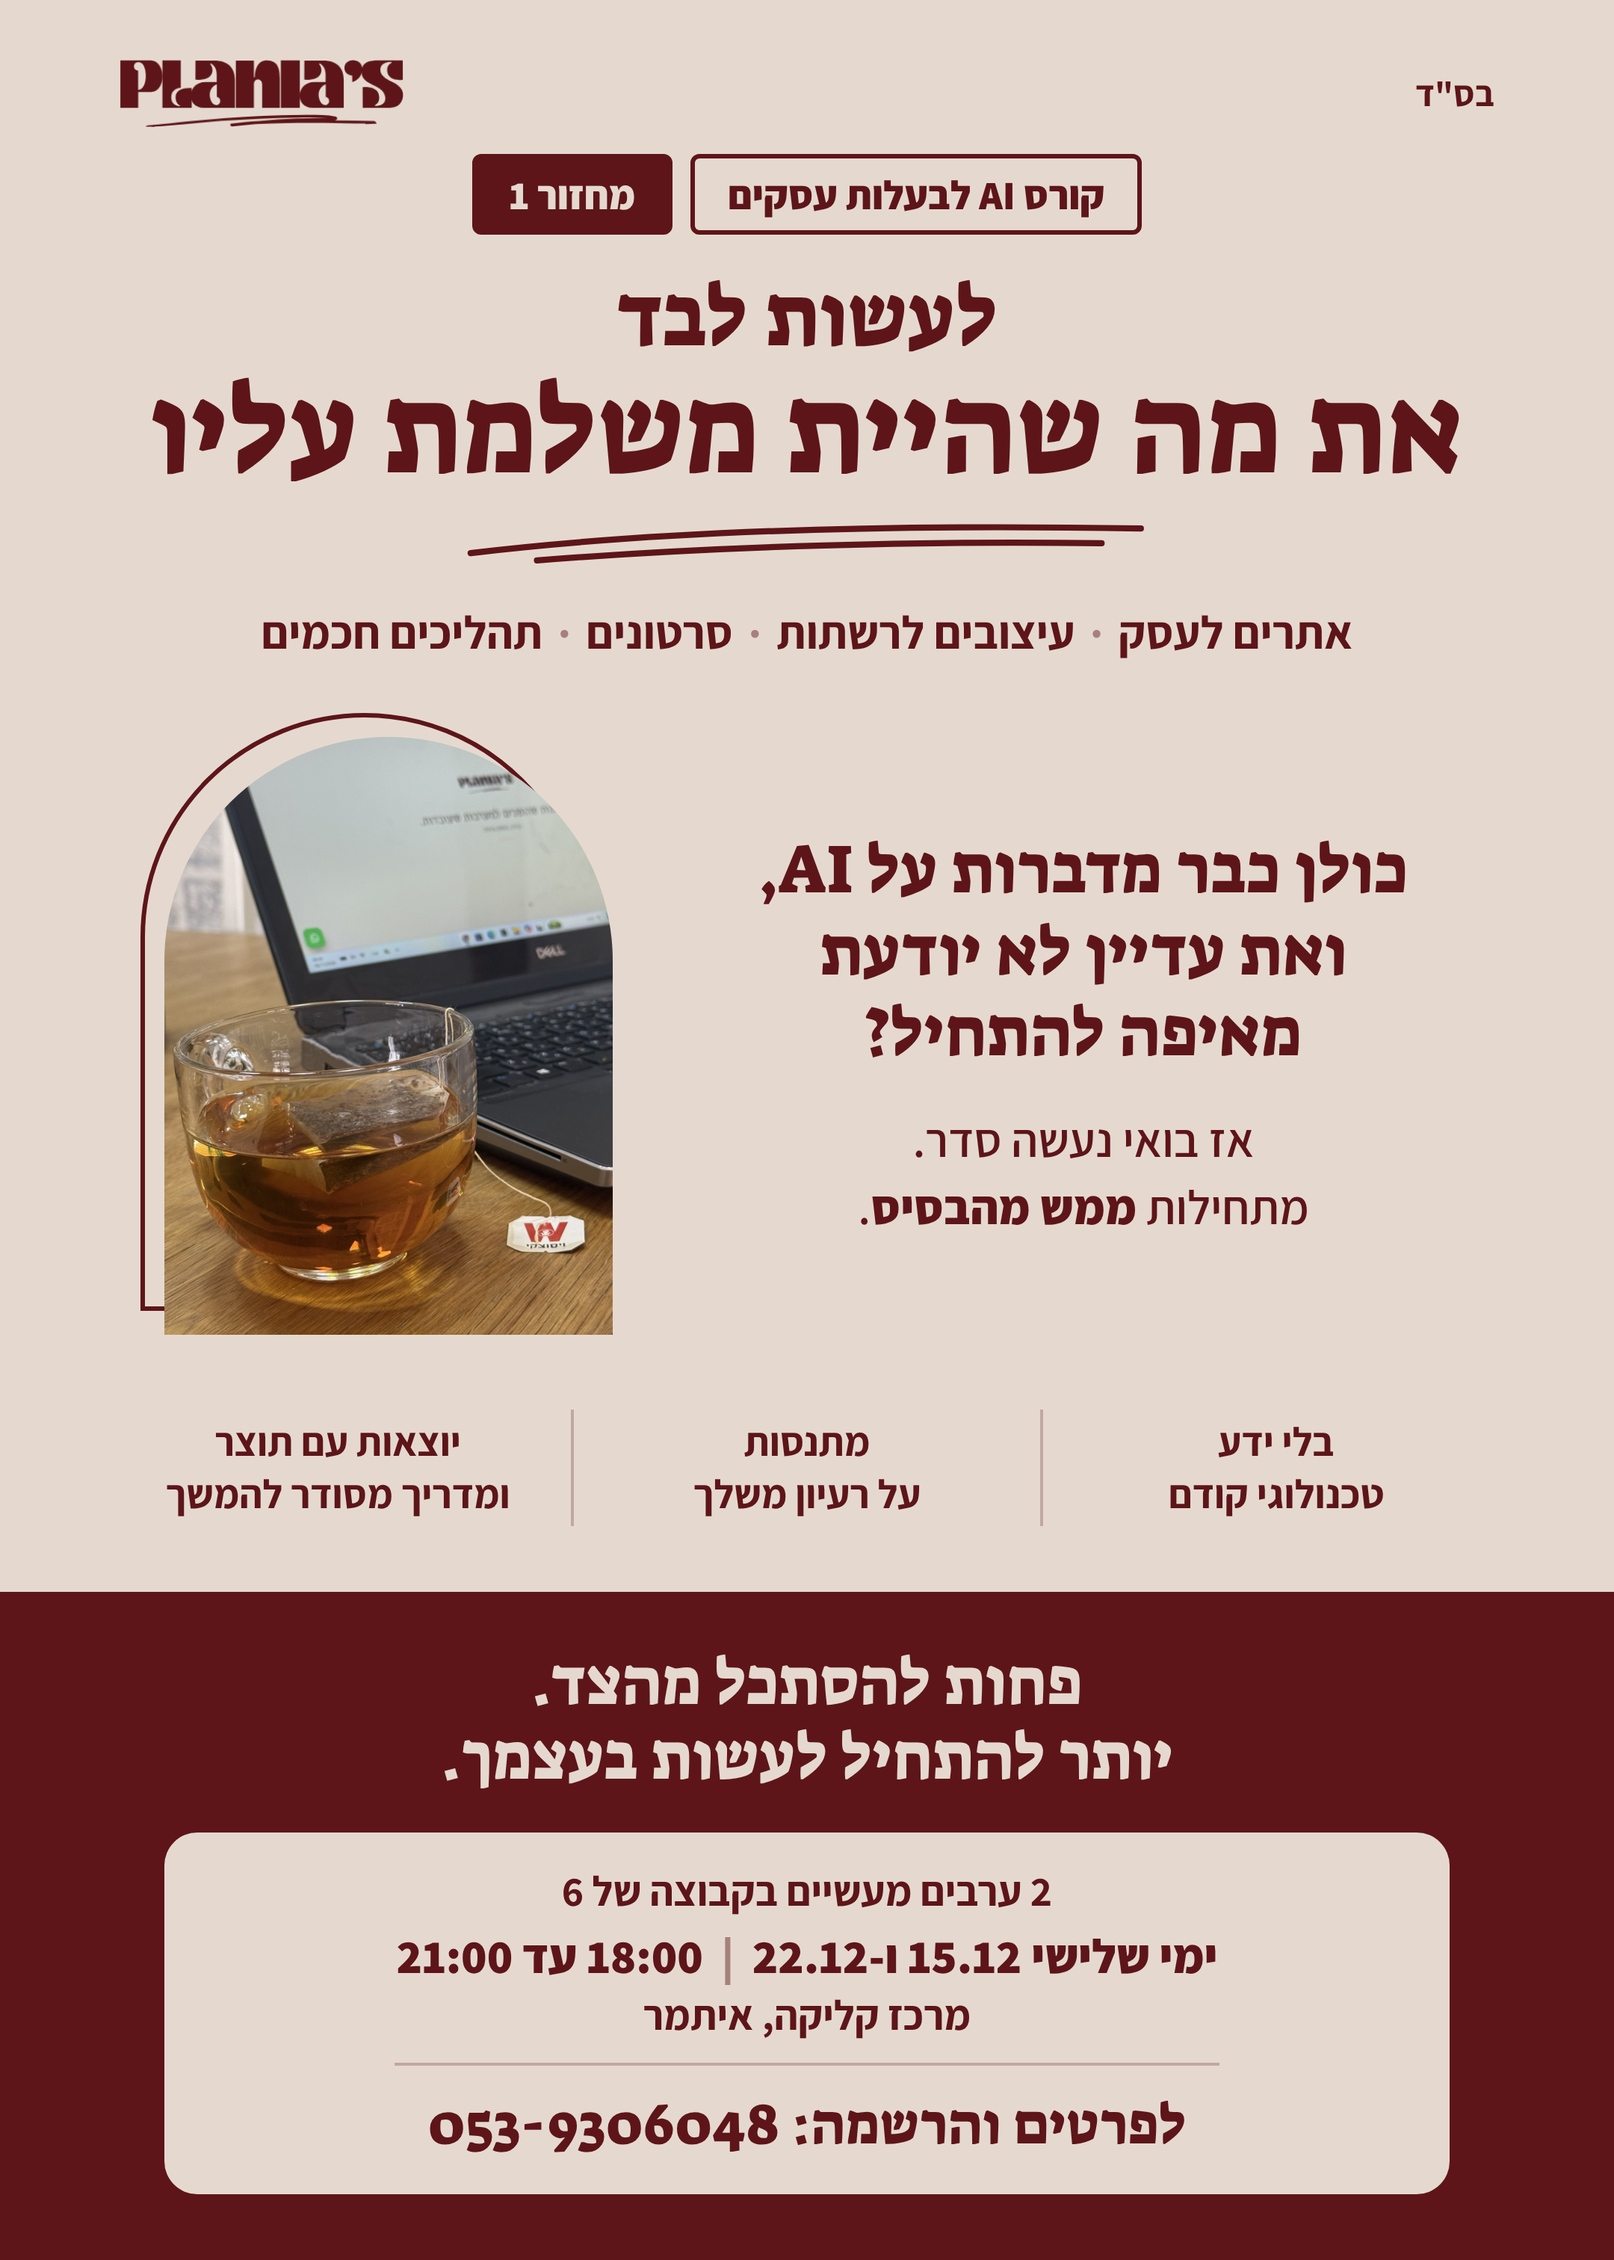
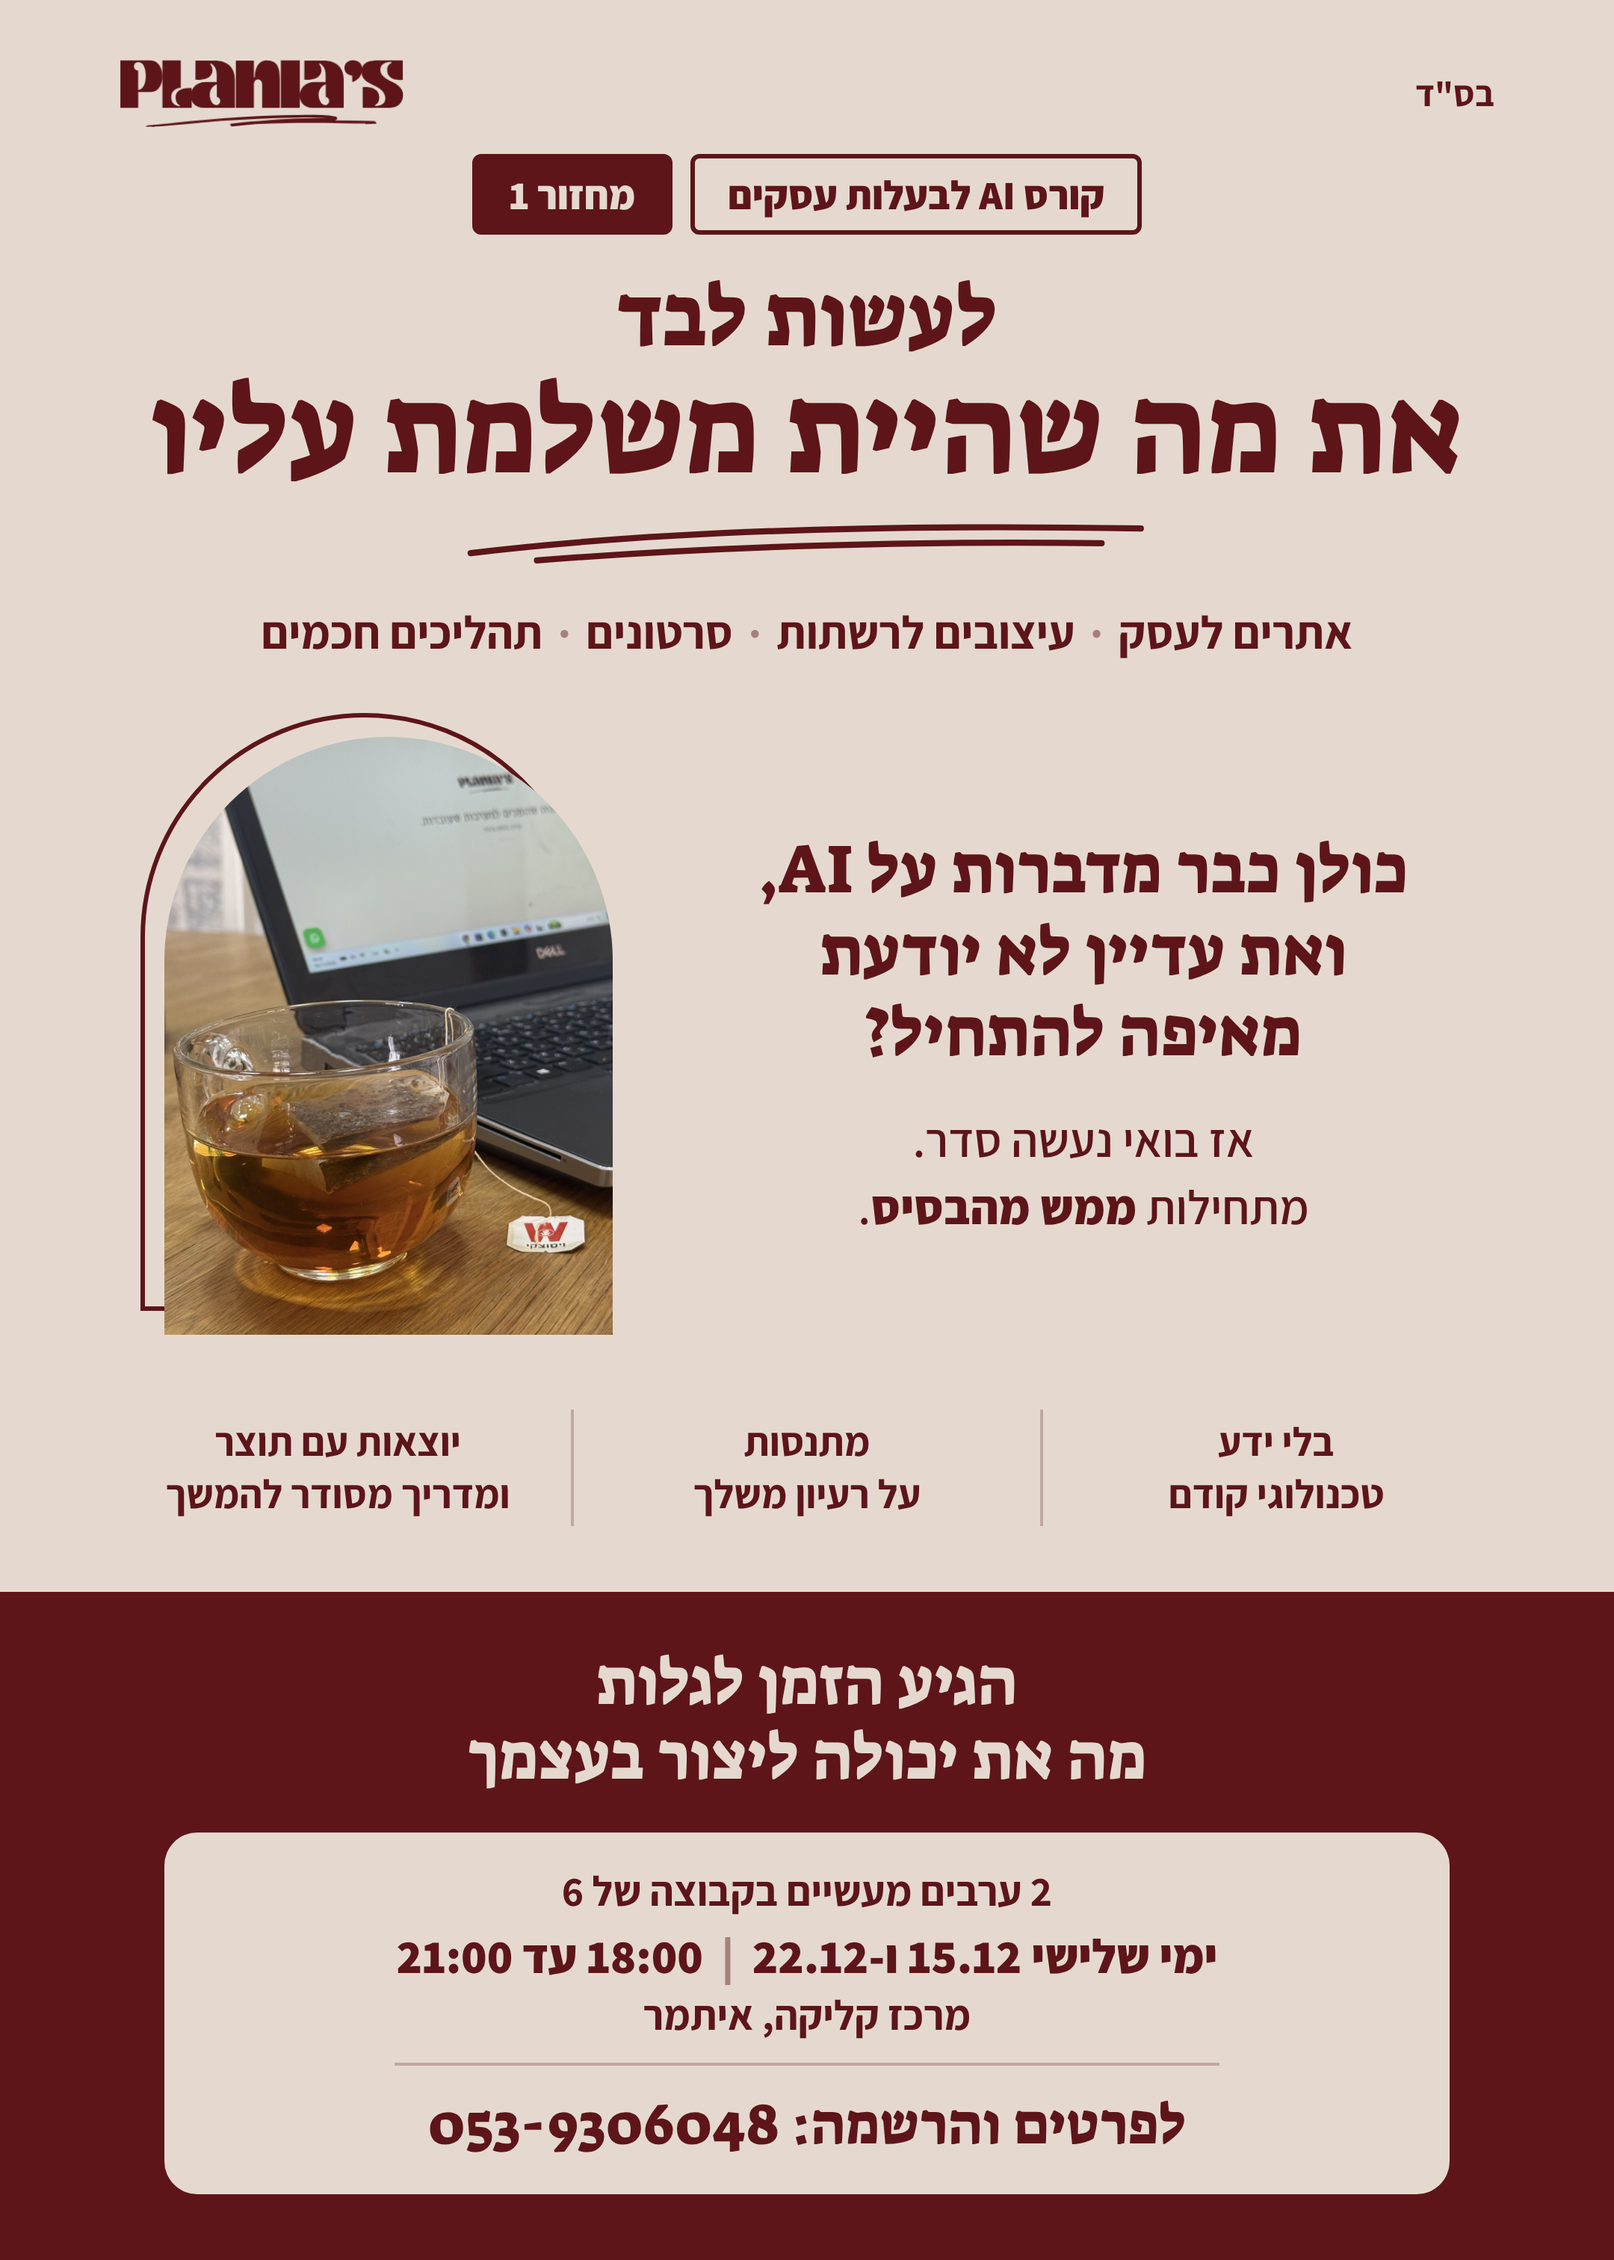
Flyer: new closing line
Claude-Session: https://claude.ai/code/session_01FAztRn3s498VxUBgDg5pS8

Changed region(s): [[0.2792, 0.7149, 0.7134, 0.8082]]

diff --git a/marketing/course-ad/flyer-photo.html b/marketing/course-ad/flyer-photo.html
@@ -71,7 +71,7 @@ h1 .small{display:block;font-size:58px;margin-bottom:4px}
   </div>
 
   <div class="band">
-    <h2>פחות להסתכל מהצד.<br>יותר להתחיל לעשות בעצמך.</h2>
+    <h2>הגיע הזמן לגלות<br>מה את יכולה ליצור בעצמך</h2>
     <div class="box">
       <div class="meta">2 ערבים מעשיים בקבוצה של 6</div>
       <div class="when">ימי שלישי 15.12 ו-22.12<span class="sep">|</span>18:00 עד 21:00</div>
